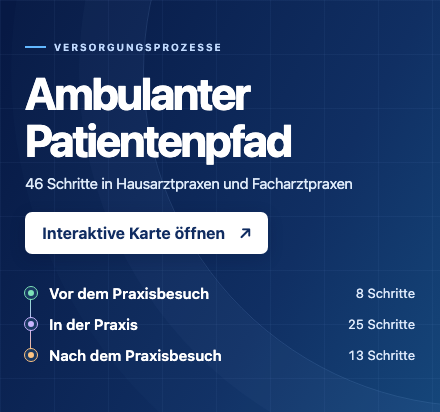
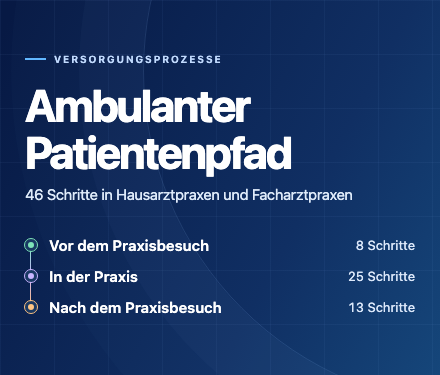
Live-Link und Anleitung zum Folgerezept im README hervorheben

diff --git a/README.md b/README.md
@@ -1,23 +1,27 @@
-<a href="https://timofrank.github.io/ambulante-prozesskarte/">
-  <picture>
-    <source media="(max-width: 640px)" srcset="vorschau/patientenpfad-mobil.png">
-    <img src="vorschau/patientenpfad.png" width="100%" alt="Ambulanter Patientenpfad: Interaktive Karte öffnen">
-  </picture>
-</a>
+<picture>
+  <source media="(max-width: 640px)" srcset="vorschau/patientenpfad-mobil.png">
+  <img src="vorschau/patientenpfad.png" width="100%" alt="Ambulanter Patientenpfad. 46 Schritte vor, während und nach dem Praxisbesuch.">
+</picture>
 
-Was passiert zwischen der Blutabnahme und dem Anruf mit dem Ergebnis? Wie geht es nach einer Überweisung oder einer ambulanten Operation weiter? Die [interaktive Karte](https://timofrank.github.io/ambulante-prozesskarte/) zeigt, wer den nächsten Schritt übernimmt und welche Informationen dafür gebraucht werden.
+<h2 align="center"><a href="https://timofrank.github.io/ambulante-prozesskarte/">Interaktive Karte öffnen ↗</a></h2>
+
+Was passiert zwischen der Blutabnahme und dem Anruf mit dem Ergebnis? Wie geht es nach einer Überweisung oder einer ambulanten Operation weiter? Die Karte zeigt, wer den nächsten Schritt übernimmt und welche Informationen dafür gebraucht werden.
 
 ## Einblick in die Karte
 
 [![Browserfenster mit der geöffneten Prozesskarte. Die Suche nach Labor zeigt den Auftrag, die Probenentnahme und die Freigabe des Befunds.](vorschau/labor.png)](https://timofrank.github.io/ambulante-prozesskarte/?suche=Labor)
 
-Ein Folgerezept braucht andere Schritte als eine ambulante Operation. Öffne eine Karte, um zu sehen, wer beteiligt ist und was als Nächstes passiert. Unter der Beschreibung findest du die Quellen zum Weiterlesen. [Beispiel Labor öffnen](https://timofrank.github.io/ambulante-prozesskarte/?suche=Labor)
+## Die Karte am Beispiel eines Folgerezepts erkunden
+
+Stell dir vor, dein regelmäßig eingenommenes Medikament geht zur Neige. Wie kommst du an das nächste Rezept?
+
+1. **Den passenden Schritt finden.** Gib im Suchfeld „Folgerezept“ ein. Unter „Nach dem Praxisbesuch“ erscheint die Karte **#42 „Folgerezept anfragen und ausstellen“**. [Mit dieser Suche starten](https://timofrank.github.io/ambulante-prozesskarte/?suche=Folgerezept)
+2. **Die Karte aufklappen.** Klicke auf den Treffer. Du liest, wie du das Rezept in der Praxis anfragen kannst und wer entscheidet, ob ein persönlicher Kontakt nötig ist. Unter „Fachquellen“ findest du die Informationen der gematik zum Nachlesen.
+3. **Den Weg weiterverfolgen.** Ersetze den Suchbegriff durch „E-Rezept“. Öffne **„E-Rezept in der Apotheke einlösen“**, um zu sehen, wie du das verordnete Medikament erhältst. Wenn du das Suchfeld leerst, siehst du wieder alle 46 Schritte.
 
 ## Herkunft und Einordnung
 
 Das Vorbild ist die Krankenhauskarte des Arbeitskreises Patientenportale. Sie beschreibt den Weg vor, während und nach einem Krankenhausaufenthalt. Dafür hat der Arbeitskreis aus über 80 möglichen Schritten 25 ausgewählt. Wie die Auswahl zustande kam, erläutert er im [Positionspapier, Abschnitt 3.3](https://www.ina.gematik.de/fileadmin/Arbeitskreisdokumente/Patientenportale/Positionspapier.pdf#page=25).
-
-[![Das Original-Repository des Arbeitskreises Patientenportale auf GitHub mit der README zum stationären Patientenpfad.](vorschau/original-repository.png)](https://github.com/oeme-github/INA-ePA-und-Patientenportale#readme)
 
 [Original-Repository auf GitHub](https://github.com/oeme-github/INA-ePA-und-Patientenportale) oder [stationäre Prozesskarte öffnen](https://oeme-github.github.io/INA-ePA-und-Patientenportale/patientenpfad_interaktiv.html)
 
